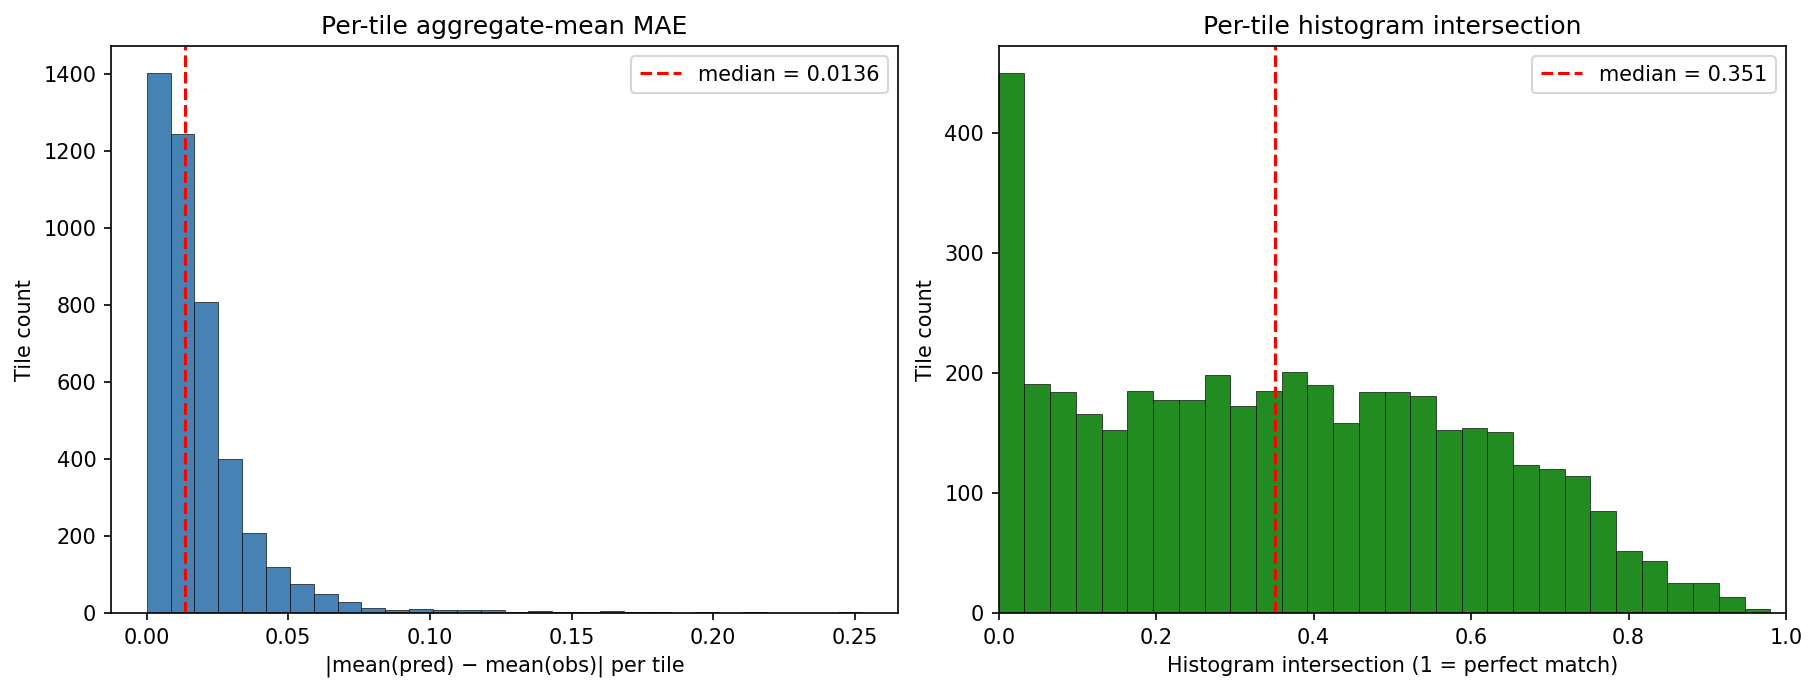
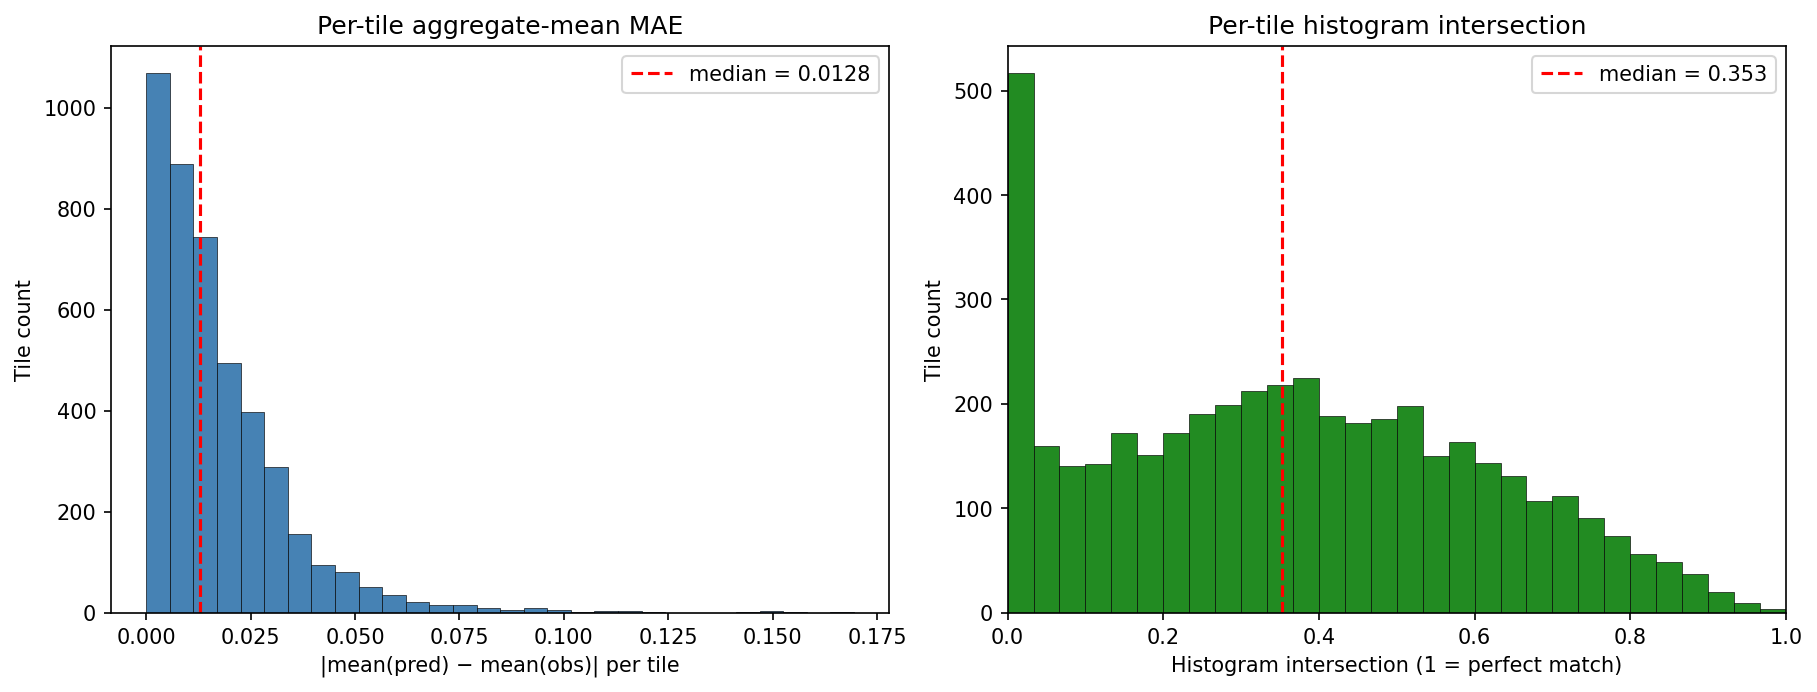
v35: mean_head_hidden 128→256 — regression across the board
Bigger mean head squeezed out the diffusion residual's tail expression.
pred_max 0.528→0.404, bin>0.4 cov 0.025→0.000, POD@0.4 0.055→0.000,
Pearson 0.564→0.436.

Confirms 128-hidden is the right size for our setup. Larger mean head
absorbs too much of the rare-event signal into deterministic prediction,
leaving the diffusion U-Net with too narrow a residual distribution to
sample from.

diff --git a/docs/diffusion_v1_results.md b/docs/diffusion_v1_results.md
@@ -7,7 +7,7 @@
 - Aggregate-tile size: **16×16** pixels (10 km blocks).
 - Histogram bins (rarity-weighted, matches baseline `histogram_loss.py`):
   `[-1.0, -0.005, 0.005, 0.02, 0.1, 0.2, 0.4, 0.6, 1.0]`.
-- W&B run: [glennwithtwons/spatio-temporal-diffusion/zduofz9i](https://wandb.ai/glennwithtwons/spatio-temporal-diffusion/zduofz9i)
+- W&B run: [glennwithtwons/spatio-temporal-diffusion/19279ibv](https://wandb.ai/glennwithtwons/spatio-temporal-diffusion/19279ibv)
 
 
 ## Iteration history (best-of-run on user-target metrics)
@@ -90,8 +90,8 @@ batches and the predict run slows from ~40 min to 2-3 h.
 
 ## Model & checkpoint
 
-- Checkpoint: `spatio-temporal-diffusion/zduofz9i/checkpoints/dhm-diffusion-epoch50-valloss5.1278.ckpt`
-- Stopping epoch: 50 (global step 816)
+- Checkpoint: `spatio-temporal-diffusion/19279ibv/checkpoints/dhm-diffusion-epoch21-valloss3.0898.ckpt`
+- Stopping epoch: 21 (global step 352)
 - Architecture: `ConditionalDiffusionUNet` (`diffusers.UNet2DModel`)
   - sample_size = 64
   - base_channels = 128
@@ -99,7 +99,7 @@ batches and the predict run slows from ~40 min to 2-3 h.
   - attention_head_dim = 64, attention_at_low_two = True
   - layers_per_block = 2
   - cond_channels = 56 (3 timesteps × 11 dyn + 7 static + locenc + 1 hm_t)
-  - parameter count = **74.5 M**
+  - parameter count = **75.4 M**
 - Diffusion: `DDPMScheduler(prediction_type="v_prediction", beta_schedule="squaredcos_cap_v2")`
   - num_train_timesteps = 1000
   - inference sampler: DDIM at 12 steps
@@ -111,13 +111,13 @@ batches and the predict run slows from ~40 min to 2-3 h.
 | Metric | Value |
 |---|---|
 | Tiles with valid coverage | 4,394 of 7,150 |
-| Tile-mean MAE (median) | **0.0136** |
-| Tile-mean MAE (mean) | 0.0182 |
-| Tile-mean MAE (95th %ile) | 0.0503 |
-| Histogram intersection (median) | **0.351** |
-| Histogram intersection (mean) | 0.360 |
-| Pearson r (predicted vs. observed tile-mean Δhm) | 0.553 |
-| Coverage rate (q025 ≤ obs ≤ q975), all bins | 0.659 (target ≈ 0.95) |
+| Tile-mean MAE (median) | **0.0128** |
+| Tile-mean MAE (mean) | 0.0173 |
+| Tile-mean MAE (95th %ile) | 0.0480 |
+| Histogram intersection (median) | **0.353** |
+| Histogram intersection (mean) | 0.362 |
+| Pearson r (predicted vs. observed tile-mean Δhm) | 0.436 |
+| Coverage rate (q025 ≤ obs ≤ q975), all bins | 0.689 (target ≈ 0.95) |
 
 ### Coverage stratified by Δhm change bin
 
@@ -128,13 +128,13 @@ ones where the model has to express genuine uncertainty.
 
 | Δhm bin | n pixels | Coverage |
 |---|---:|---:|
-| `[ -1.000, -0.005]` | 56,357 | 0.445 |
-| `[ -0.005, +0.005]` | 742,163 | 0.707 |
-| `[ +0.005, +0.020]` | 116,330 | 0.542 |
-| `[ +0.020, +0.100]` | 97,708 | 0.614 |
-| `[ +0.100, +0.200]` | 10,296 | 0.251 |
-| `[ +0.200, +0.400]` | 1,614 | 0.048 |
-| `[ +0.400, +0.600]` | 120 | 0.008 |
+| `[ -1.000, -0.005]` | 56,357 | 0.416 |
+| `[ -0.005, +0.005]` | 742,163 | 0.731 |
+| `[ +0.005, +0.020]` | 116,330 | 0.581 |
+| `[ +0.020, +0.100]` | 97,708 | 0.711 |
+| `[ +0.100, +0.200]` | 10,296 | 0.231 |
+| `[ +0.200, +0.400]` | 1,614 | 0.040 |
+| `[ +0.400, +0.600]` | 120 | 0.000 |
 | `[ +0.600, +1.000]` | 7 | 0.000 |
 
 ## Tail diagnostics
@@ -148,17 +148,17 @@ WassDiff (IEEE TGRS 2025), ExtremeCast (AAAI 2024), and the Aich et al. (GMD
 
 - Threshold: 0.0667
 - Observed tail mass: 1245.5662
-- Predicted tail mass: 1896.3333
-- **Ratio (pred / obs):** **1.522** (<<1 = under-predicting tail; ~1 = calibrated; >1 = over)
+- Predicted tail mass: 1067.3802
+- **Ratio (pred / obs):** **0.857** (<<1 = under-predicting tail; ~1 = calibrated; >1 = over)
 
 ### Tail exceedance (deterministic + q975 ensemble support)
 
 | Threshold | n(obs>t) | n(pred>t) | POD | CSI | FAR | q975 soft-POD |
 |---|---|---|---|---|---|---|
-| +0.050 |     42,889 |    124,384 | 0.457 | 0.133 | 0.842 | 0.914 |
-| +0.100 |     12,037 |     18,798 | 0.183 | 0.077 | 0.883 | 0.568 |
-| +0.200 |      1,741 |      1,517 | 0.083 | 0.047 | 0.904 | 0.175 |
-| +0.400 |        127 |         13 | 0.055 | 0.053 | 0.462 | 0.094 |
+| +0.050 |     42,889 |     92,357 | 0.310 | 0.109 | 0.856 | 0.950 |
+| +0.100 |     12,037 |     11,284 | 0.101 | 0.055 | 0.892 | 0.553 |
+| +0.200 |      1,741 |        410 | 0.045 | 0.038 | 0.810 | 0.106 |
+| +0.400 |        127 |          2 | 0.000 | 0.000 | 1.000 | 0.055 |
 
 ![Q-Q max-of-field](../outputs/diffusion_v1/qq_max_of_field.png)
 
